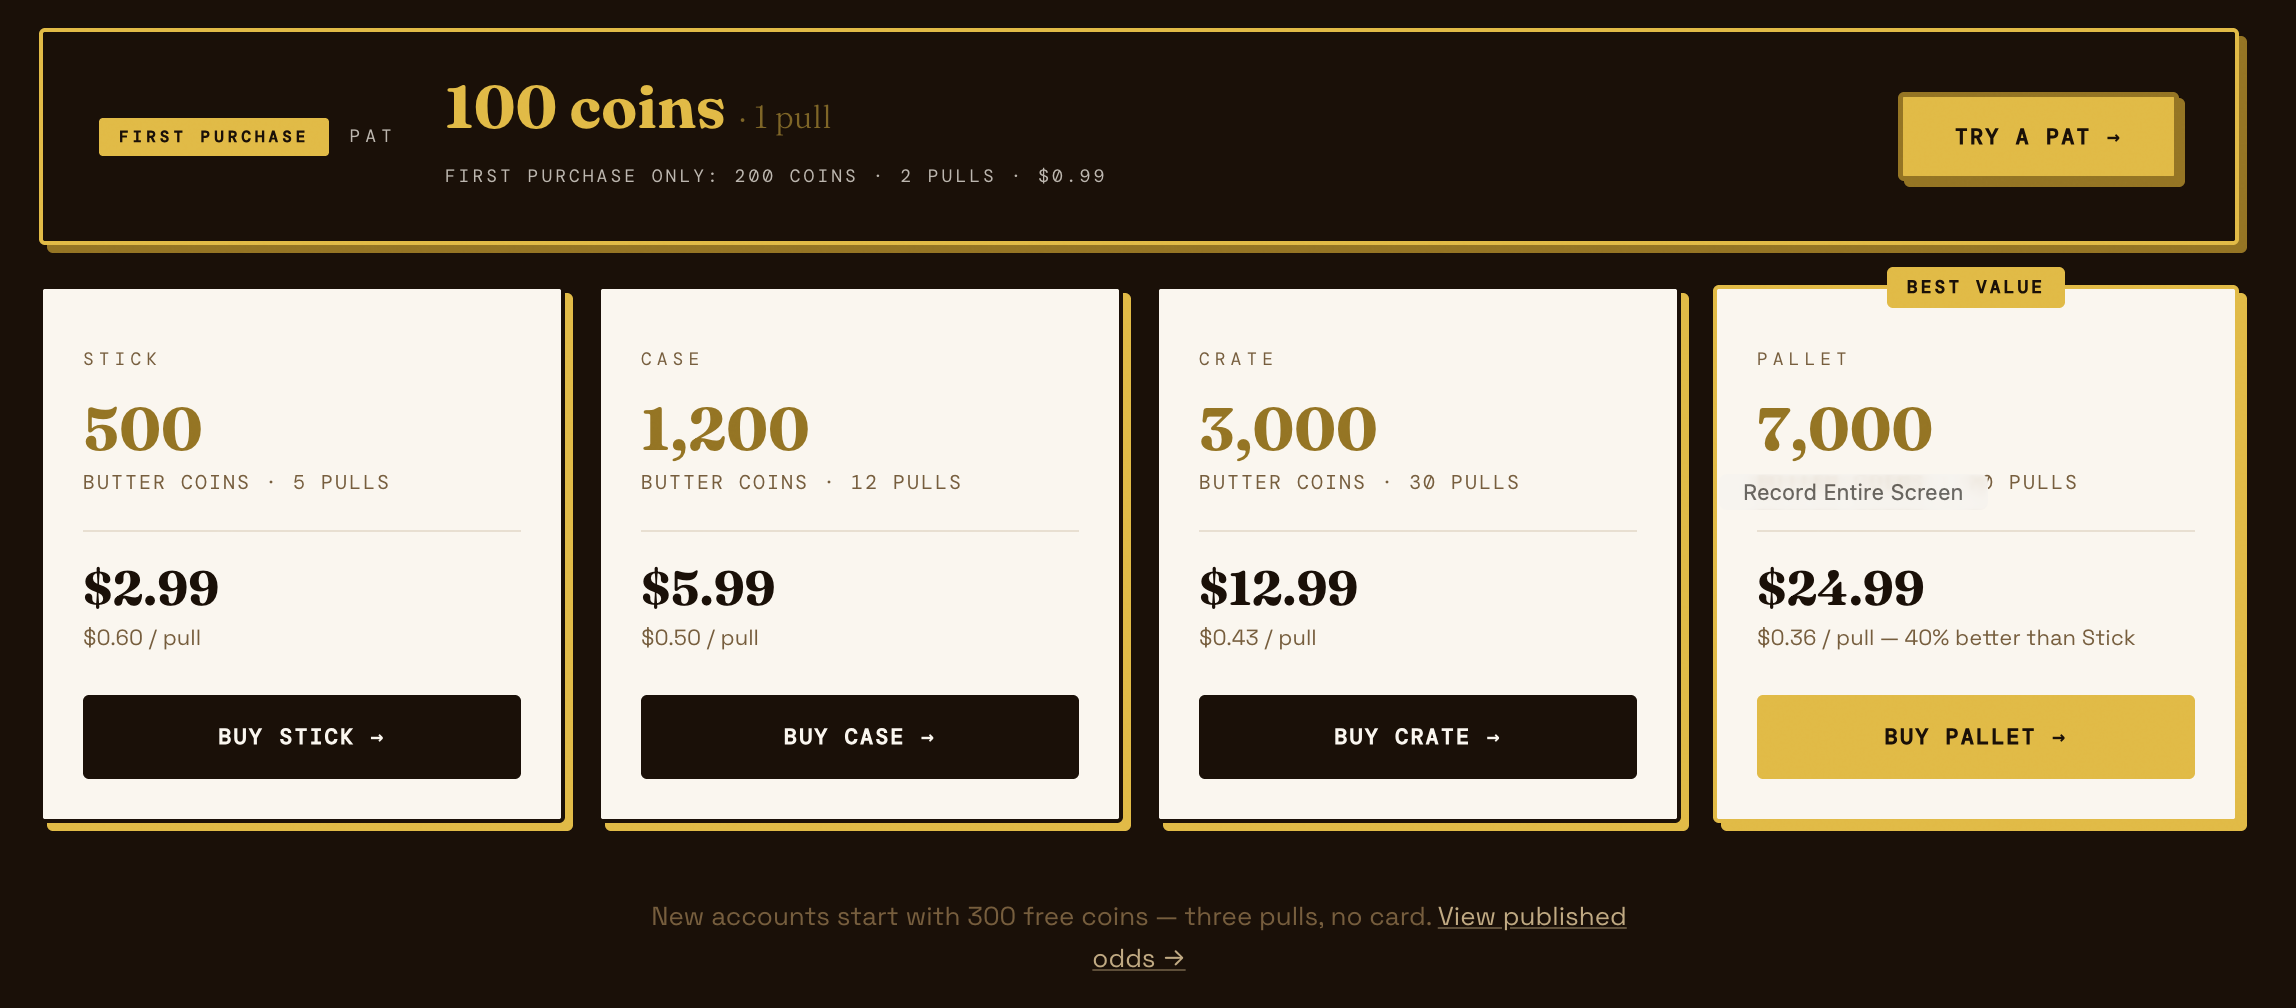
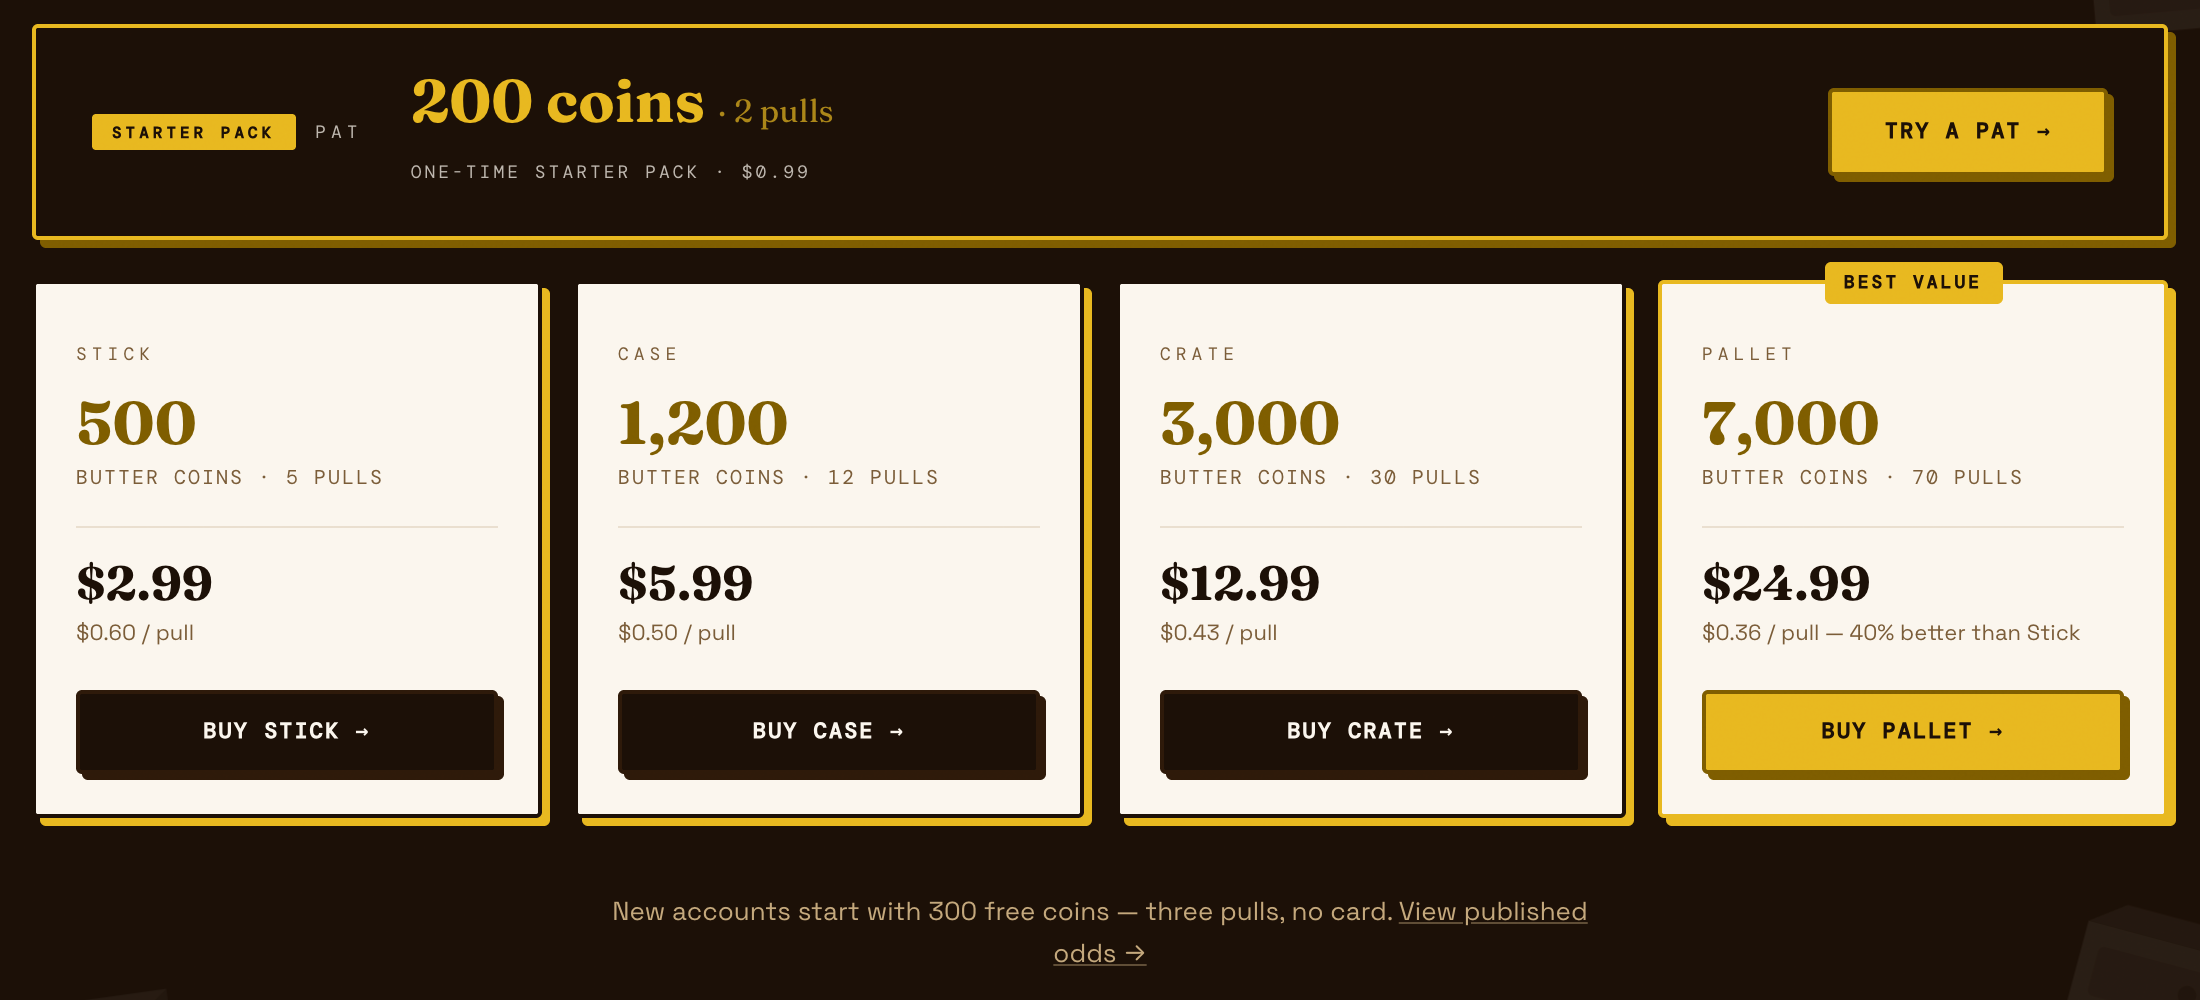
Squishy Butter case study: current screenshots, coin shop, economy hardening diagram

diff --git a/squishy-butter.html b/squishy-butter.html
@@ -323,7 +323,7 @@
                     <p>Skins aren't just colours, either. Each has its own physics - Frozen barely yields until you warm it up with your finger, and it warms <em>where you touch it</em>, so one end can soften while the rest stays solid. Each has its own sound, generated live and fed the dent's depth and speed every frame so it tracks what your hand is doing. And each has a rarity, a serial number, a written provenance story, a certificate and a trading card.</p>
                 </div>
                 <div class="sb-auth-split-phone">
-                    <img src="assets/images/squishy-butter/butter-9.jpg" alt="Classic Butter - certificate details and provenance story" loading="lazy" style="width:220px;max-width:100%;display:block;border-radius:20px;">
+                    <img src="assets/images/squishy-butter/squish-golden.jpg" alt="Classic Butter dented mid-squish" loading="lazy" style="width:220px;max-width:100%;display:block;border-radius:20px;">
                 </div>
             </div>
             <div class="sb-marquee-wrap">
@@ -434,7 +434,7 @@ return Math.max(6, Math.min(48, affordable));</div>
                     <div class="sb-odds-track"><div class="sb-odds-bar sb-odds-bar--legendary"></div></div>
                 </div>
             </div>
-            <img src="assets/images/squishy-butter/prices.png" alt="Coin shop - Stick, Case, Crate, and Pallet packages" loading="lazy" style="width:100%;border-radius:12px;display:block;margin-top:1.75em;">
+            <img src="assets/images/squishy-butter/prices.png" alt="Coin shop - one-time Starter Pat plus Stick, Case, Crate, and Pallet packages" loading="lazy" style="width:100%;border-radius:12px;display:block;margin-top:1.75em;">
         </div>
 
         <div class="case-section">
@@ -488,6 +488,13 @@ return Math.max(6, Math.min(48, affordable));</div>
             <h3>Hardening the Economy</h3>
             <p>Before a release I audited the coin economy end to end, client and database, and found real holes. A server-only function that credits purchases had never had its default public access revoked, so in principle anyone with the public API key could grant themselves coins. And because players could edit their own profile row, reward dates like the last daily claim could be reset to collect the same reward again.</p>
             <p>The fix was one migration: lock every coin-granting function to the server, and turn the profile guard from a block-list into an allow-list - players can change their name, avatar and settings, and nothing else. Purchases are now capped by what the store actually reports, so a fabricated transaction ID can't mint coins; web payments record and credit in one atomic step; and if an app purchase is interrupted after the charge, the coins are recovered automatically on the next sign-in.</p>
+            <div role="img" aria-label="Purchase flow: the app sends a purchase to a server function, which verifies it with the store, then a locked database function credits coins exactly once." style="display:flex;flex-wrap:wrap;gap:0.75em;margin:1.25em 0 1.5em;">
+                <div style="display:flex;flex-direction:column;gap:0.3em;padding:0.9em 1em;border:1px solid var(--color-border);border-radius:10px;flex:1 1 180px;min-width:0;"><span style="font-size:0.7em;letter-spacing:0.12em;text-transform:uppercase;color:var(--color-text-muted);">Client</span><strong style="font-size:0.95em;">iOS · Android · Mac · Web</strong><span style="font-size:0.82em;color:var(--color-text-muted);line-height:1.45;">Sign in before checkout. Never decides coins or pulls.</span></div>
+                <div aria-hidden="true" style="align-self:center;color:var(--color-text-muted);font-size:1.2em;">&rarr;</div>
+                <div style="display:flex;flex-direction:column;gap:0.3em;padding:0.9em 1em;border:1px solid var(--color-border);border-radius:10px;flex:1 1 180px;min-width:0;"><span style="font-size:0.7em;letter-spacing:0.12em;text-transform:uppercase;color:var(--color-text-muted);">Edge functions</span><strong style="font-size:0.95em;">Verify the purchase</strong><span style="font-size:0.82em;color:var(--color-text-muted);line-height:1.45;">RevenueCat purchase count, Apple-signed StoreKit transactions, Stripe signatures. Fails closed.</span></div>
+                <div aria-hidden="true" style="align-self:center;color:var(--color-text-muted);font-size:1.2em;">&rarr;</div>
+                <div style="display:flex;flex-direction:column;gap:0.3em;padding:0.9em 1em;border:1px solid var(--color-border);border-radius:10px;flex:1 1 180px;min-width:0;"><span style="font-size:0.7em;letter-spacing:0.12em;text-transform:uppercase;color:var(--color-text-muted);">Postgres</span><strong style="font-size:0.95em;">Credit exactly once</strong><span style="font-size:0.82em;color:var(--color-text-muted);line-height:1.45;">Server-only functions, per-user lock, idempotent transaction IDs. Profile changes allow-listed.</span></div>
+            </div>
             <p>To make that testable without touching real players, I rebuilt the backend so a complete local copy of the database comes up with one command, seeded with the full catalogue and test accounts. Thirty-seven SQL tests attack each hole as an anonymous or signed-in user and confirm it stays closed; they run locally before every database change ships.</p>
         </div>
 
@@ -565,36 +572,36 @@ return Math.max(6, Math.min(48, affordable));</div>
             <h3>iOS</h3>
             <div class="sb-scroll-track">
                 <figure class="sb-scroll-item sb-scroll-item--phone">
-                    <img src="assets/images/squishy-butter/butter-2.jpg" alt="Navigation drawer - Dairy Delivery, Buy Coins, My Butters, Leaderboard, Trading Card, Certificate" loading="lazy">
-                    <figcaption>One swipe back to squishing</figcaption>
+                    <img src="assets/images/squishy-butter/as-iphone-01-squish.jpg" alt="Squish screen - Classic Butter dented mid-press" loading="lazy">
+                    <figcaption>Real soft-body squish</figcaption>
                 </figure>
                 <figure class="sb-scroll-item sb-scroll-item--phone">
-                    <img src="assets/images/squishy-butter/butter-3.jpg" alt="Full menu - Sound Mode, Dynamic Background, Haptics, and Account with coin balance" loading="lazy">
-                    <figcaption>Settings, haptics, and your coin balance</figcaption>
+                    <img src="assets/images/squishy-butter/as-iphone-02-skins.jpg" alt="Lava Butter on the Vaporwave stage" loading="lazy">
+                    <figcaption>Every butter squishes differently</figcaption>
                 </figure>
                 <figure class="sb-scroll-item sb-scroll-item--phone">
-                    <img src="assets/images/squishy-butter/butter-4.jpg" alt="Customization - 27 butter colors, expression picker, and title selector" loading="lazy">
-                    <figcaption>Pick your color, expression, and title</figcaption>
+                    <img src="assets/images/squishy-butter/as-iphone-03-reveal.jpg" alt="Dairy Delivery reveal - Stained Glass, Legendary, serial No. 0007" loading="lazy">
+                    <figcaption>The reveal</figcaption>
                 </figure>
                 <figure class="sb-scroll-item sb-scroll-item--phone">
-                    <img src="assets/images/squishy-butter/butter-5.jpg" alt="Dairy Delivery - order tracking screen with delivery details" loading="lazy">
-                    <figcaption>Dairy Delivery - track your drop</figcaption>
+                    <img src="assets/images/squishy-butter/as-iphone-04-collection.jpg" alt="Cold store collection grid filtered to Epic" loading="lazy">
+                    <figcaption>Your collection</figcaption>
                 </figure>
                 <figure class="sb-scroll-item sb-scroll-item--phone">
-                    <img src="assets/images/squishy-butter/butter-6.jpg" alt="Dairy Delivery truck animation en route" loading="lazy">
-                    <figcaption>The truck is on its way</figcaption>
-                </figure>
-                <figure class="sb-scroll-item sb-scroll-item--phone">
-                    <img src="assets/images/squishy-butter/butter-7.jpg" alt="Classic Butter skin - trading card with rarity and serial number" loading="lazy">
-                    <figcaption>Every skin gets a trading card</figcaption>
-                </figure>
-                <figure class="sb-scroll-item sb-scroll-item--phone">
-                    <img src="assets/images/squishy-butter/butter-10.jpg" alt="Classic Butter certificate of authenticity with provenance details" loading="lazy">
+                    <img src="assets/images/squishy-butter/as-iphone-05-certificate.jpg" alt="Kintsugi certificate of authenticity" loading="lazy">
                     <figcaption>Certificate of authenticity</figcaption>
                 </figure>
                 <figure class="sb-scroll-item sb-scroll-item--phone">
-                    <img src="assets/images/squishy-butter/butter-8.jpg" alt="Stock Up - Stick, Case, Crate, and Pallet coin packages" loading="lazy">
-                    <figcaption>Four ways to stock up on coins</figcaption>
+                    <img src="assets/images/squishy-butter/as-iphone-06-card.jpg" alt="Galaxy Butter trading card" loading="lazy">
+                    <figcaption>Every skin gets a trading card</figcaption>
+                </figure>
+                <figure class="sb-scroll-item sb-scroll-item--phone">
+                    <img src="assets/images/squishy-butter/as-iphone-07-leaderboard.jpg" alt="Live leaderboard of top squishers" loading="lazy">
+                    <figcaption>Live leaderboards</figcaption>
+                </figure>
+                <figure class="sb-scroll-item sb-scroll-item--phone">
+                    <img src="assets/images/squishy-butter/as-iphone-08-delivery.jpg" alt="Dairy Delivery with pity counters and published drop rates" loading="lazy">
+                    <figcaption>Pity counters and published odds</figcaption>
                 </figure>
             </div>
         </div>
@@ -604,24 +611,24 @@ return Math.max(6, Math.min(48, affordable));</div>
             <p>The app scales naturally to iPad — the butter gets more room to breathe and the wider canvas makes squishing feel even more tactile. There's also a native Mac app: a lightweight window around the web build with StoreKit purchases, so your collection, coins and squish count are the same on every device.</p>
             <div class="sb-scroll-track">
                 <figure class="sb-scroll-item sb-scroll-item--phone" style="width:280px;">
-                    <img src="assets/images/squishy-butter/butter-12.jpg" alt="Squishy Butter on iPad - main squish screen with Classic Butter and mini butters floating around it" loading="lazy" style="height:auto;border-radius:12px;box-shadow:0 8px 28px rgba(0,0,0,0.18);">
+                    <img src="assets/images/squishy-butter/as-ipad-01-squish.jpg" alt="Squishy Butter on iPad - squish screen" loading="lazy" style="height:auto;border-radius:12px;box-shadow:0 8px 28px rgba(0,0,0,0.18);">
                     <figcaption>Main squish screen</figcaption>
                 </figure>
                 <figure class="sb-scroll-item sb-scroll-item--phone" style="width:280px;">
-                    <img src="assets/images/squishy-butter/butter-13.jpg" alt="Squishy Butter on iPad - butter dented mid-squish with First Ten achievement badge" loading="lazy" style="height:auto;border-radius:12px;box-shadow:0 8px 28px rgba(0,0,0,0.18);">
-                    <figcaption>Mid-squish with achievement</figcaption>
+                    <img src="assets/images/squishy-butter/as-ipad-02-skins.jpg" alt="Squishy Butter on iPad - Lava Butter on the Vaporwave stage" loading="lazy" style="height:auto;border-radius:12px;box-shadow:0 8px 28px rgba(0,0,0,0.18);">
+                    <figcaption>More room for every skin</figcaption>
                 </figure>
                 <figure class="sb-scroll-item sb-scroll-item--phone" style="width:280px;">
-                    <img src="assets/images/squishy-butter/butter-16.jpg" alt="Squishy Butter on iPad - profile editor showing color picker, expressions, and title options" loading="lazy" style="height:auto;border-radius:12px;box-shadow:0 8px 28px rgba(0,0,0,0.18);">
-                    <figcaption>Profile &amp; customization</figcaption>
-                </figure>
-                <figure class="sb-scroll-item sb-scroll-item--phone" style="width:280px;">
-                    <img src="assets/images/squishy-butter/butter-15.jpg" alt="Squishy Butter on iPad - Classic Butter certificate of authenticity with provenance details" loading="lazy" style="height:auto;border-radius:12px;box-shadow:0 8px 28px rgba(0,0,0,0.18);">
+                    <img src="assets/images/squishy-butter/as-ipad-05-certificate.jpg" alt="Squishy Butter on iPad - certificate of authenticity" loading="lazy" style="height:auto;border-radius:12px;box-shadow:0 8px 28px rgba(0,0,0,0.18);">
                     <figcaption>Certificate of authenticity</figcaption>
                 </figure>
                 <figure class="sb-scroll-item sb-scroll-item--phone" style="width:280px;">
-                    <img src="assets/images/squishy-butter/butter-18.jpg" alt="Squishy Butter on iPad - Classic Butter trading card reveal" loading="lazy" style="height:auto;border-radius:12px;box-shadow:0 8px 28px rgba(0,0,0,0.18);">
-                    <figcaption>Trading card reveal</figcaption>
+                    <img src="assets/images/squishy-butter/as-ipad-06-card.jpg" alt="Squishy Butter on iPad - Galaxy Butter trading card" loading="lazy" style="height:auto;border-radius:12px;box-shadow:0 8px 28px rgba(0,0,0,0.18);">
+                    <figcaption>Trading card</figcaption>
+                </figure>
+                <figure class="sb-scroll-item sb-scroll-item--phone" style="width:280px;">
+                    <img src="assets/images/squishy-butter/as-ipad-08-delivery.jpg" alt="Squishy Butter on iPad - Dairy Delivery with drop rates" loading="lazy" style="height:auto;border-radius:12px;box-shadow:0 8px 28px rgba(0,0,0,0.18);">
+                    <figcaption>Dairy Delivery</figcaption>
                 </figure>
             </div>
         </div>
@@ -640,10 +647,6 @@ return Math.max(6, Math.min(48, affordable));</div>
                 <figure class="sb-scroll-item sb-scroll-item--phone">
                     <img src="assets/images/squishy-butter/butter-23-android.jpg" alt="Android customization - butter color and expression picker" loading="lazy">
                     <figcaption>Pick your color, expression, and title</figcaption>
-                </figure>
-                <figure class="sb-scroll-item sb-scroll-item--phone">
-                    <img src="assets/images/squishy-butter/butter-25-android.jpg" alt="Android Stock Up - Stick, Case, Crate, and Pallet coin packages" loading="lazy">
-                    <figcaption>Four ways to stock up on coins</figcaption>
                 </figure>
                 <figure class="sb-scroll-item sb-scroll-item--phone">
                     <img src="assets/images/squishy-butter/butter-26-android.jpg" alt="Android Classic Butter skin - trading card with rarity and serial" loading="lazy">
